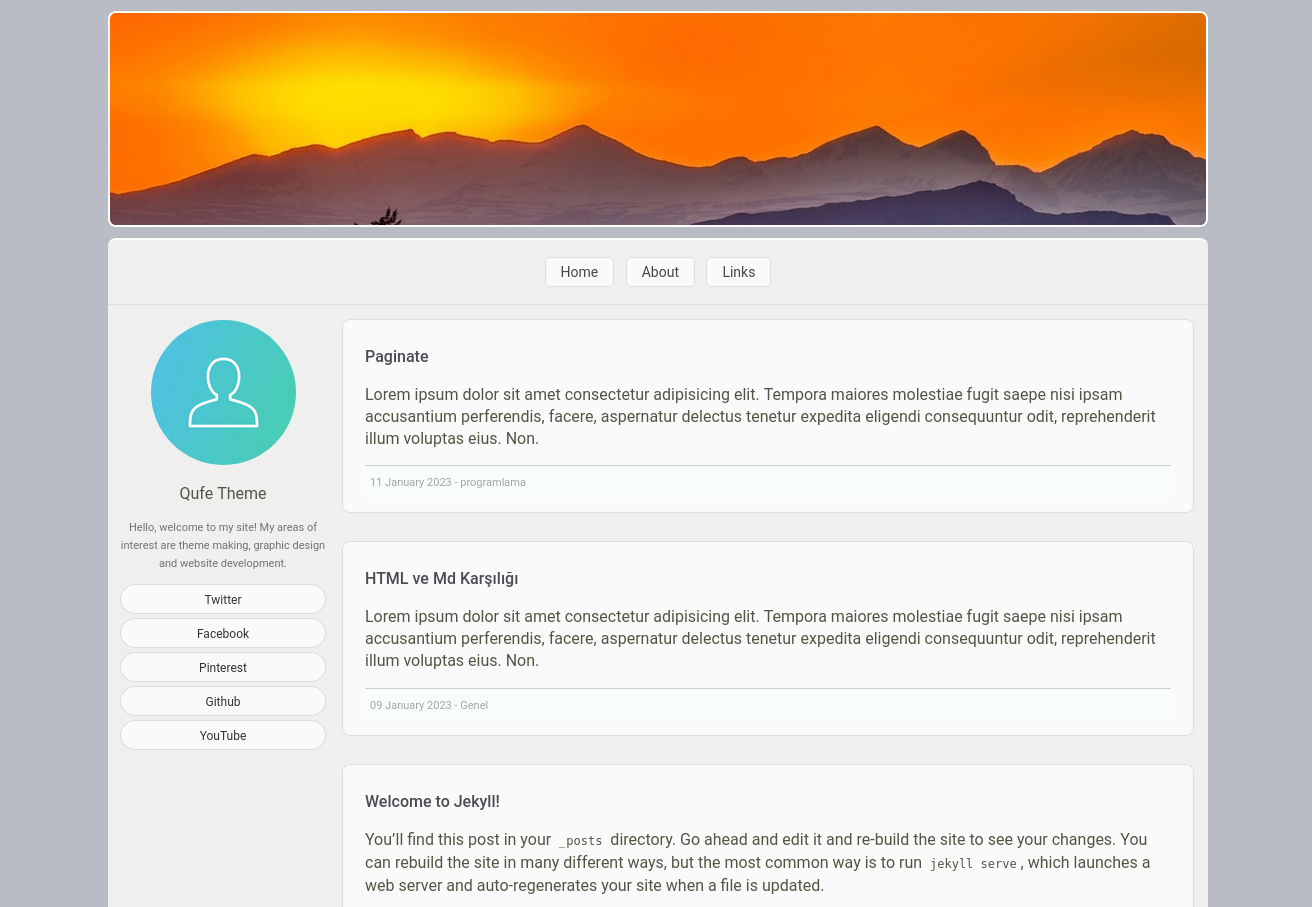
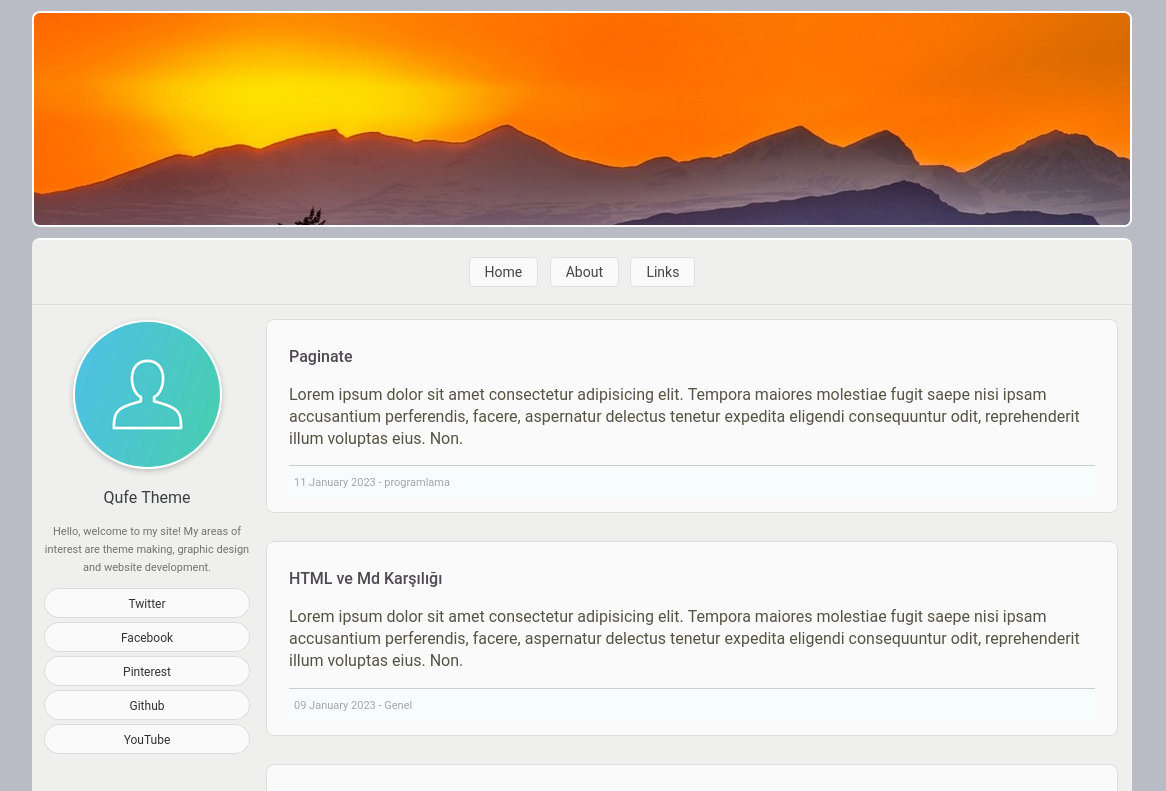
initial ss

diff --git a/README.md b/README.md
@@ -2,6 +2,8 @@
 
 A blog theme with a personalized feel.
 
+![screenshot](/assets/img/screenshot.png)
+
 ## Installation
 
 Add your Jekyll site into gemfile:
